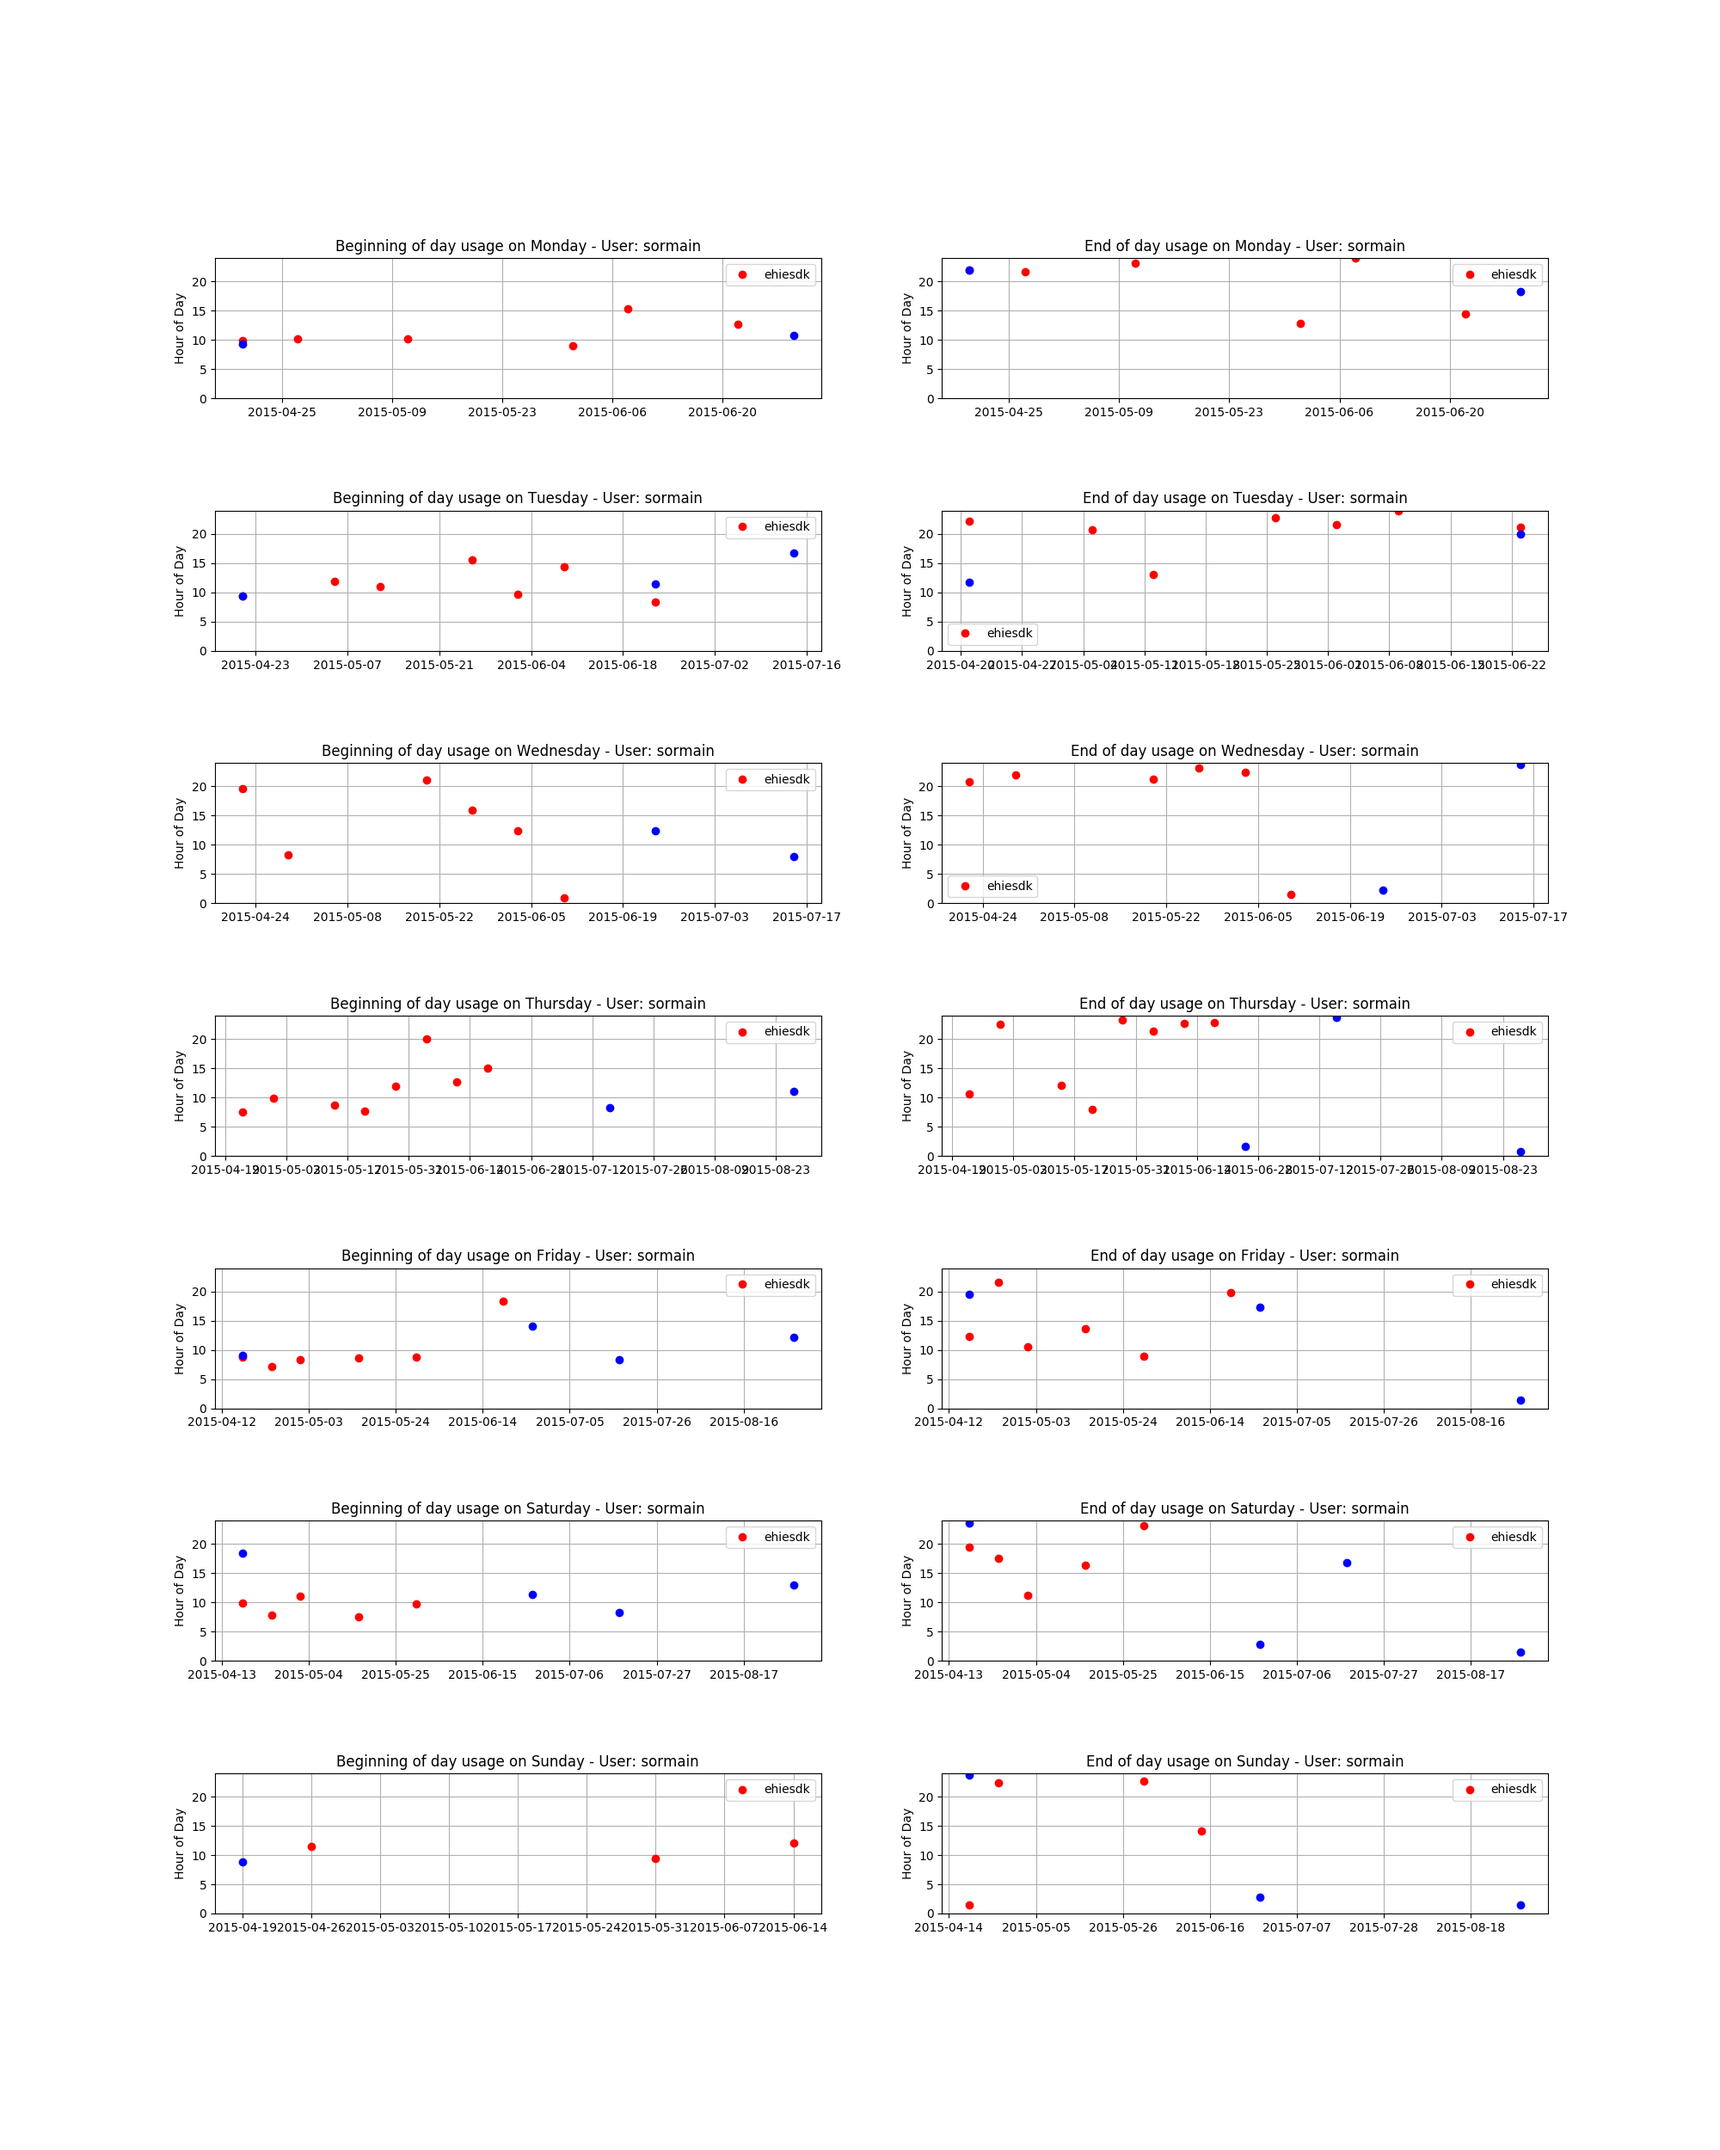
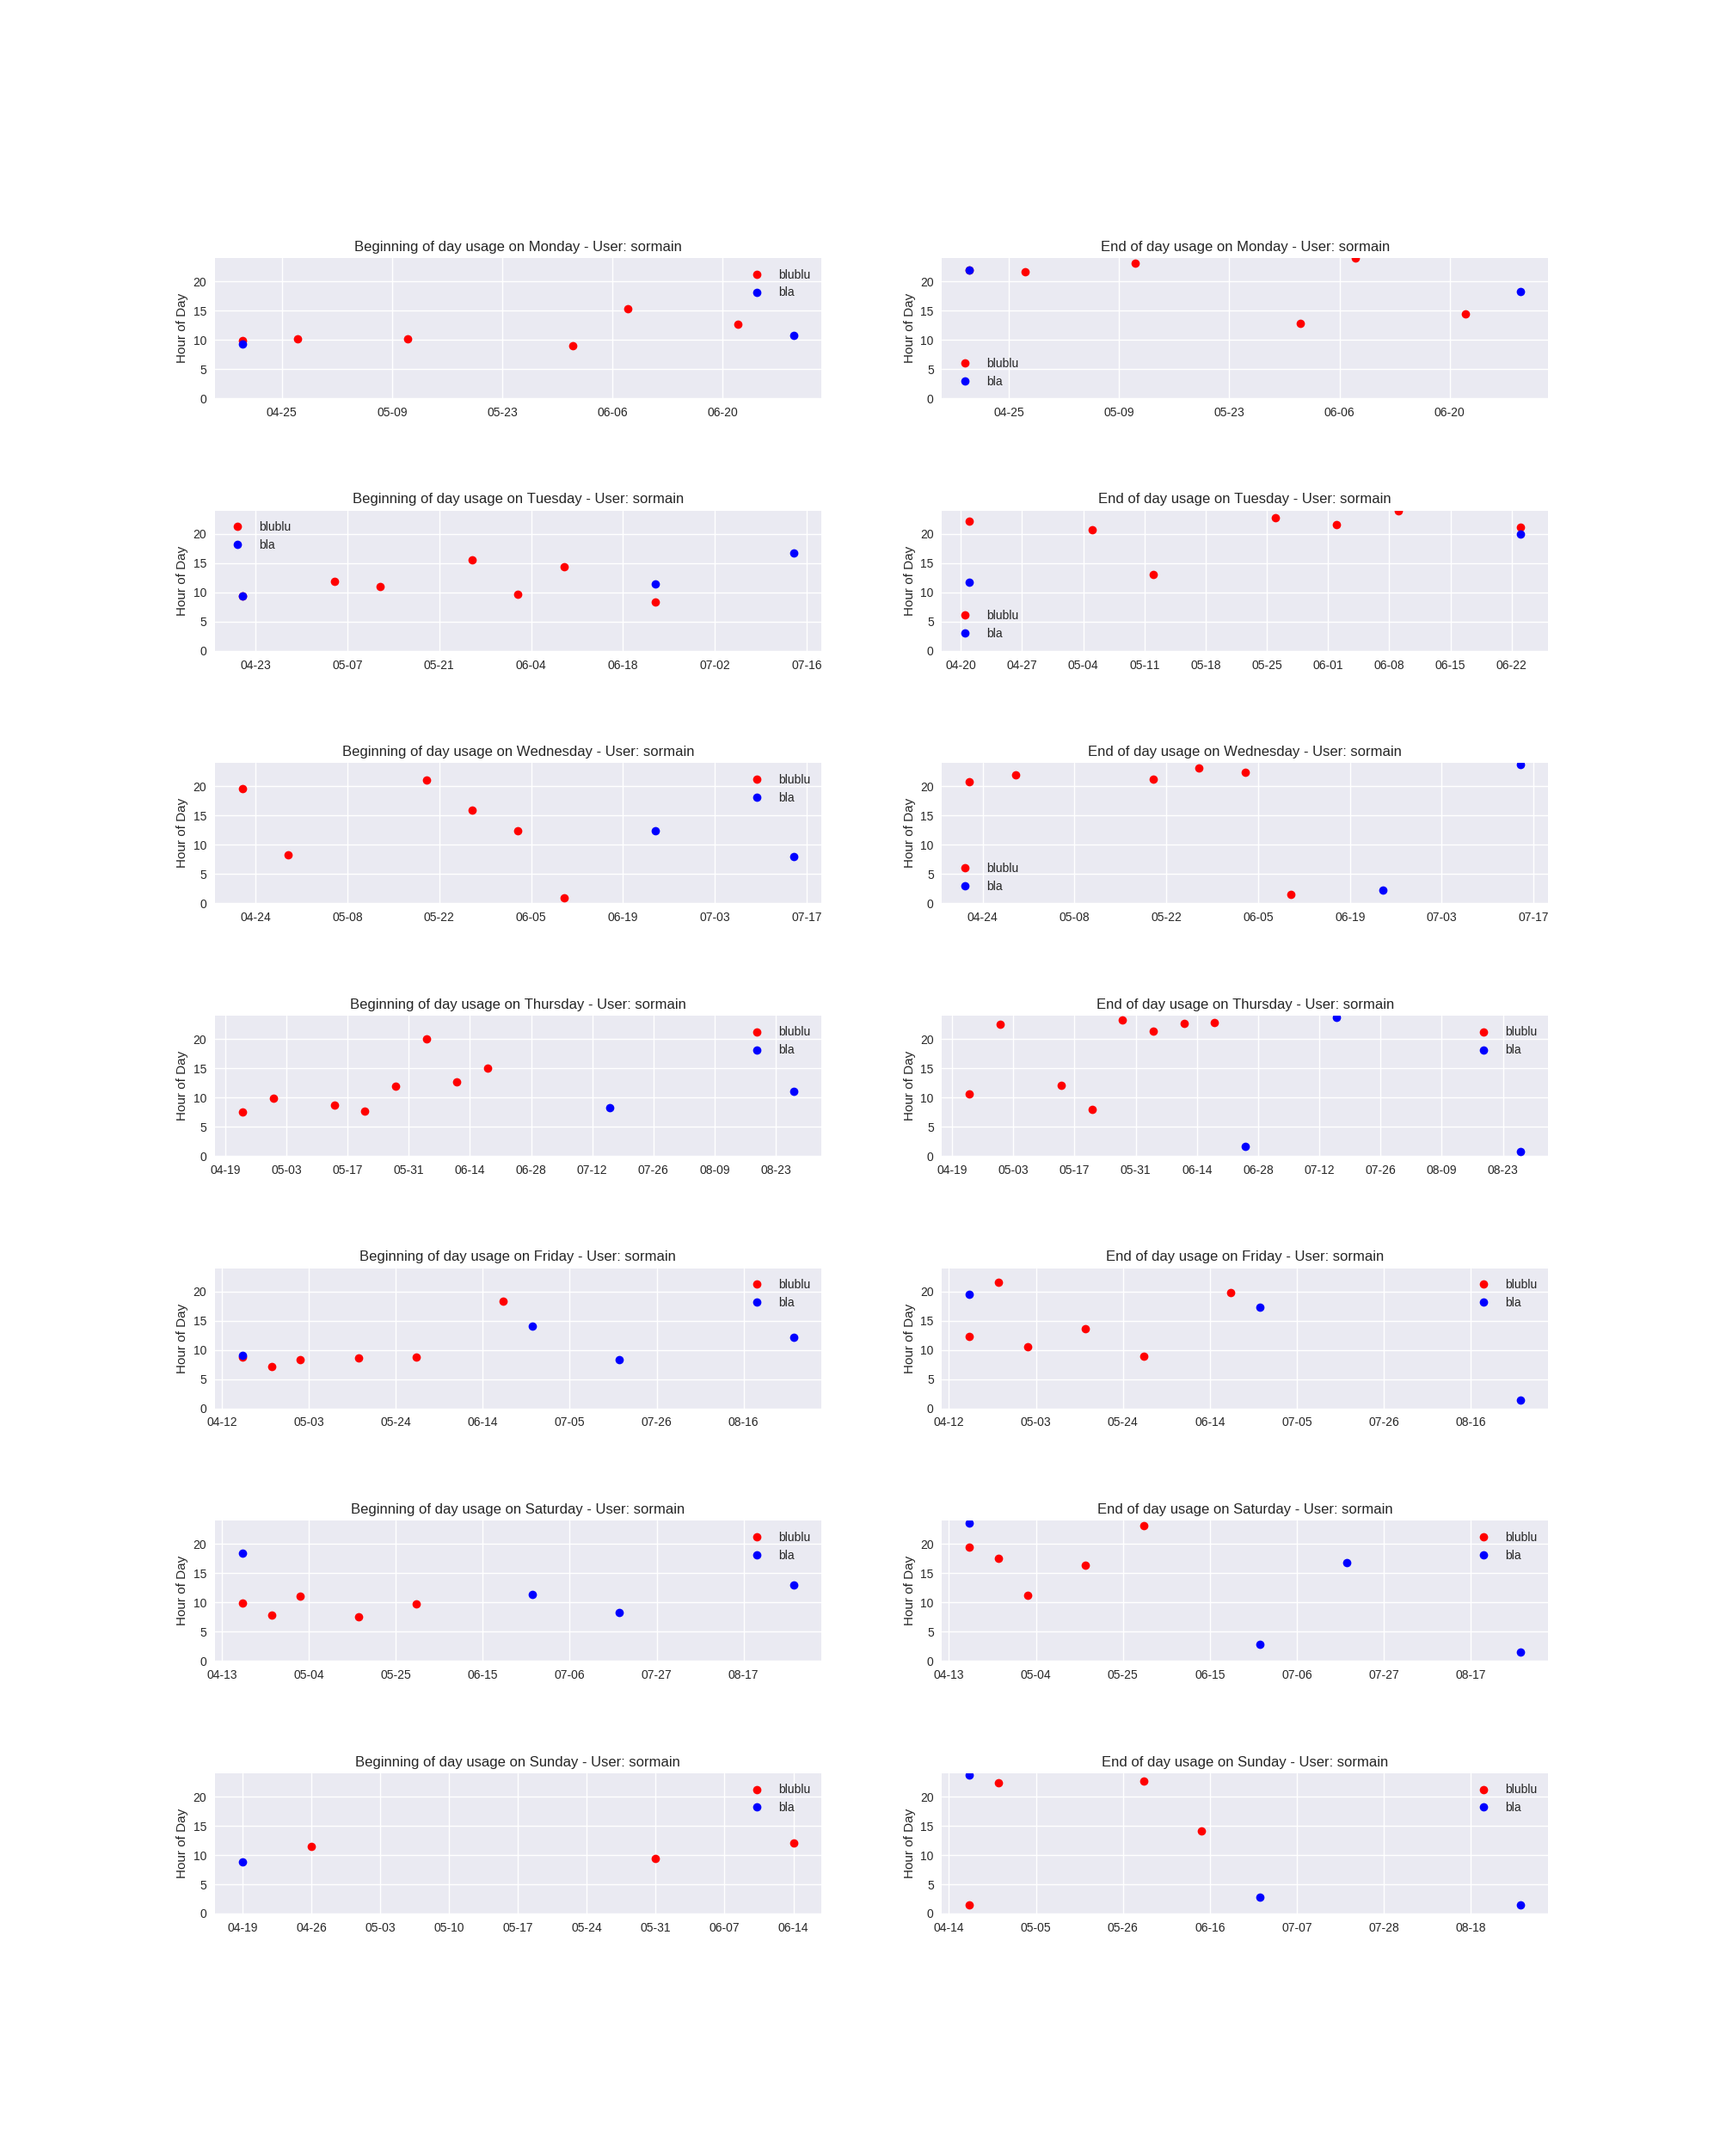
got legend for both

diff --git a/location_analysis.py b/location_analysis.py
@@ -1,7 +1,9 @@
 import numpy as np
 import pandas as pd
+import seaborn as sns
 
 import matplotlib.pyplot as plt
+from matplotlib import dates
 
 from collections import defaultdict
 
@@ -214,24 +216,33 @@ def plot_info (info_week_beg, info_week_end, days_str, user, quantity_dev):
 
 
 def create_subplot(ax, df_all_dev, key_beg_end, weekday, user):
-    #xlabels = df_col[weekday+'date']
-    #ax.set_xticklabels(xlabels, rotation=45, fontsize = 8)
-    #ax.set_xticklabels(xlabels, fontsize = 7)
+    sns.set_style('darkgrid')
+
     ax.set_title(key_beg_end + ' of day usage on ' + weekday + ' - User: ' +  user.username)
     ax.set_ylim([0,24])
     ax.set_ylabel('Hour of Day')
     ax.grid(True)
 
     for dev in range (0, len(df_all_dev)):
+        x = df_all_dev[dev][weekday+'date']
+        y = df_all_dev[dev][weekday+'time']
+        if len(x) > 1:
+            hfmt = dates.DateFormatter('%m-%d')
+            ax.xaxis.set_major_formatter(hfmt)
         if dev == 0:
             color = 'ro'
-            ax.legend(['lalalal'])
+            #ax.legend(['lalalal'])
+            ax.plot(x, y, color, label='blublu')
+            ax.legend(loc='best')
         elif dev == 1:
             color = 'bo'
-            ax.legend(['ehiesdk', 'hsdksd'])
+            #ax.legend(['ehiesdk', 'hsdksd'])
+            ax.plot(x, y, color, label='bla')
+            ax.legend(loc='best')
         else:
-            color = 'g'
-        ax.plot(df_all_dev[dev][weekday+'date'], df_all_dev[dev][weekday+'time'], color)
+            color = 'go'
+     
+        #ax.plot(x, y, color, label='blublu')
 
         
     
